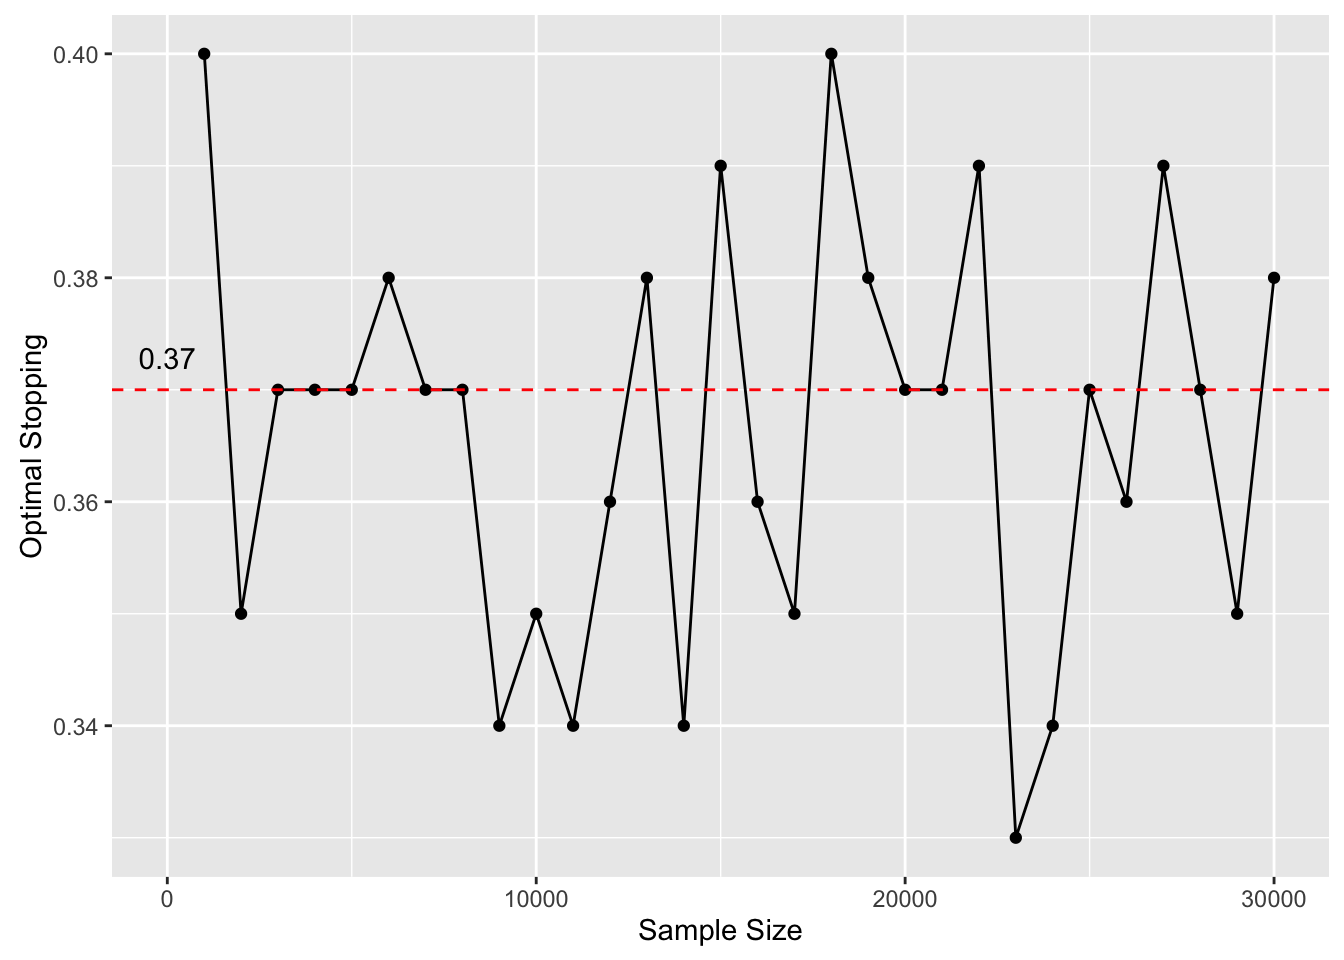
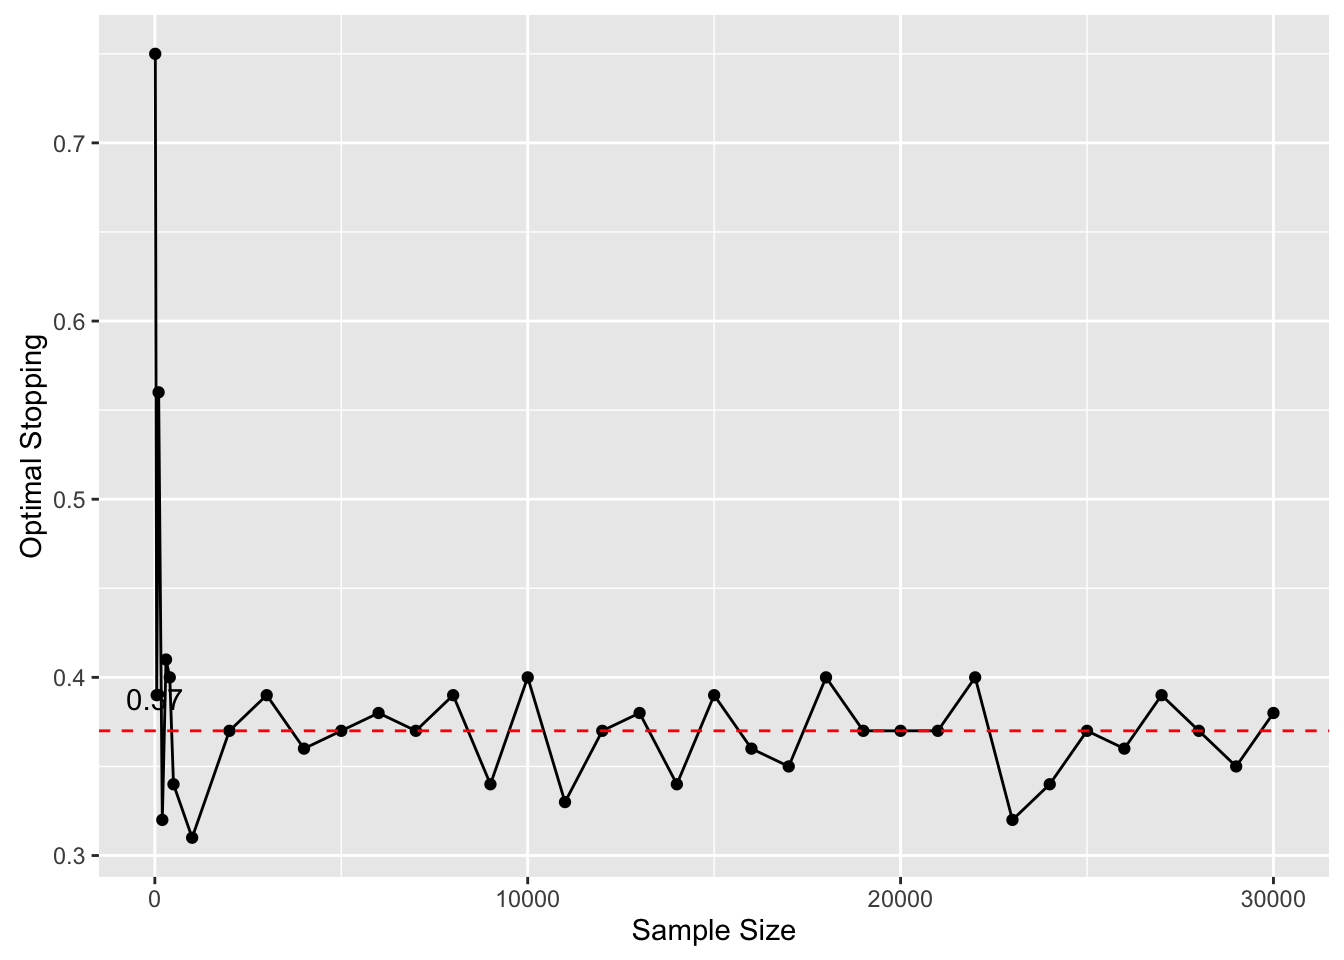
add the new post:speed dating

diff --git a/2017/05/optimal-stopping-in-speed-dating/index.html b/2017/05/optimal-stopping-in-speed-dating/index.html
@@ -268,7 +268,8 @@ best_k &lt;- function(Simulations_N, N) {
 }
 
 # Increase the simulation N and to see the convergent result
-simulations &lt;- seq(1000, 30000, 1000)
+simulations &lt;- simulations &lt;- c(10, 50, 100, 200, 300, 400, 500, seq(1000, 30000, 
+    1000))
 result &lt;- NULL
 
 for (z in simulations) {
